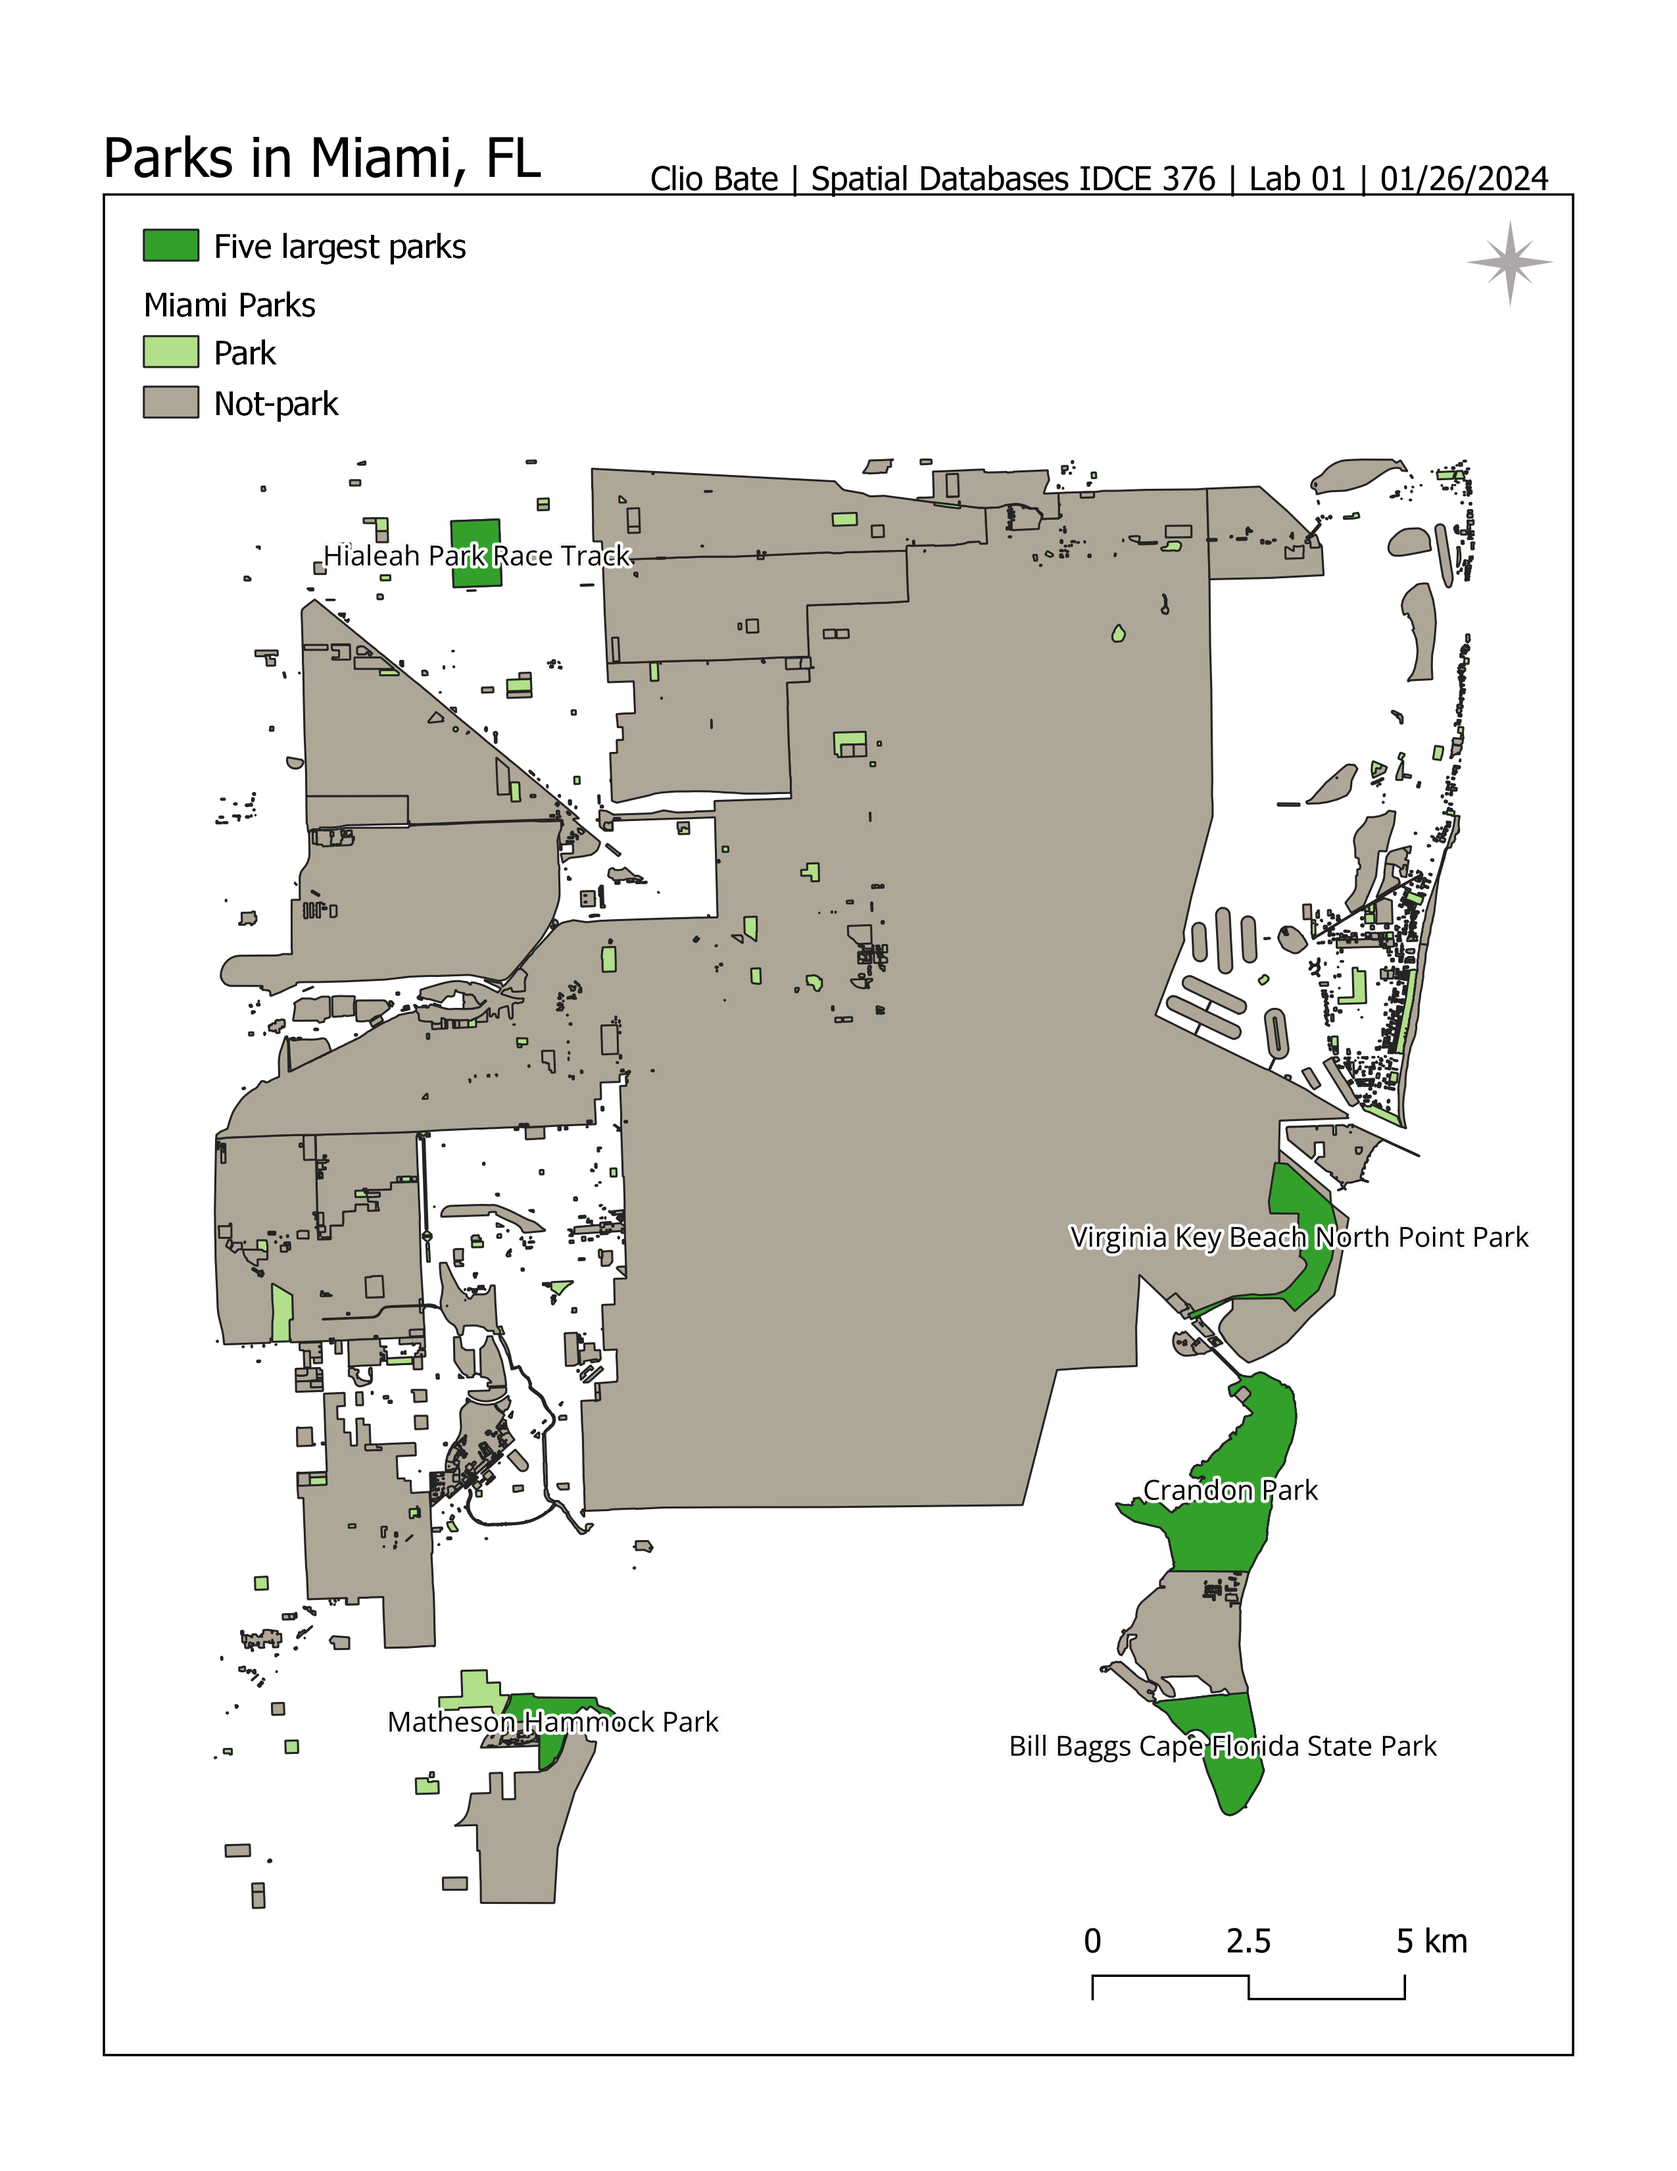
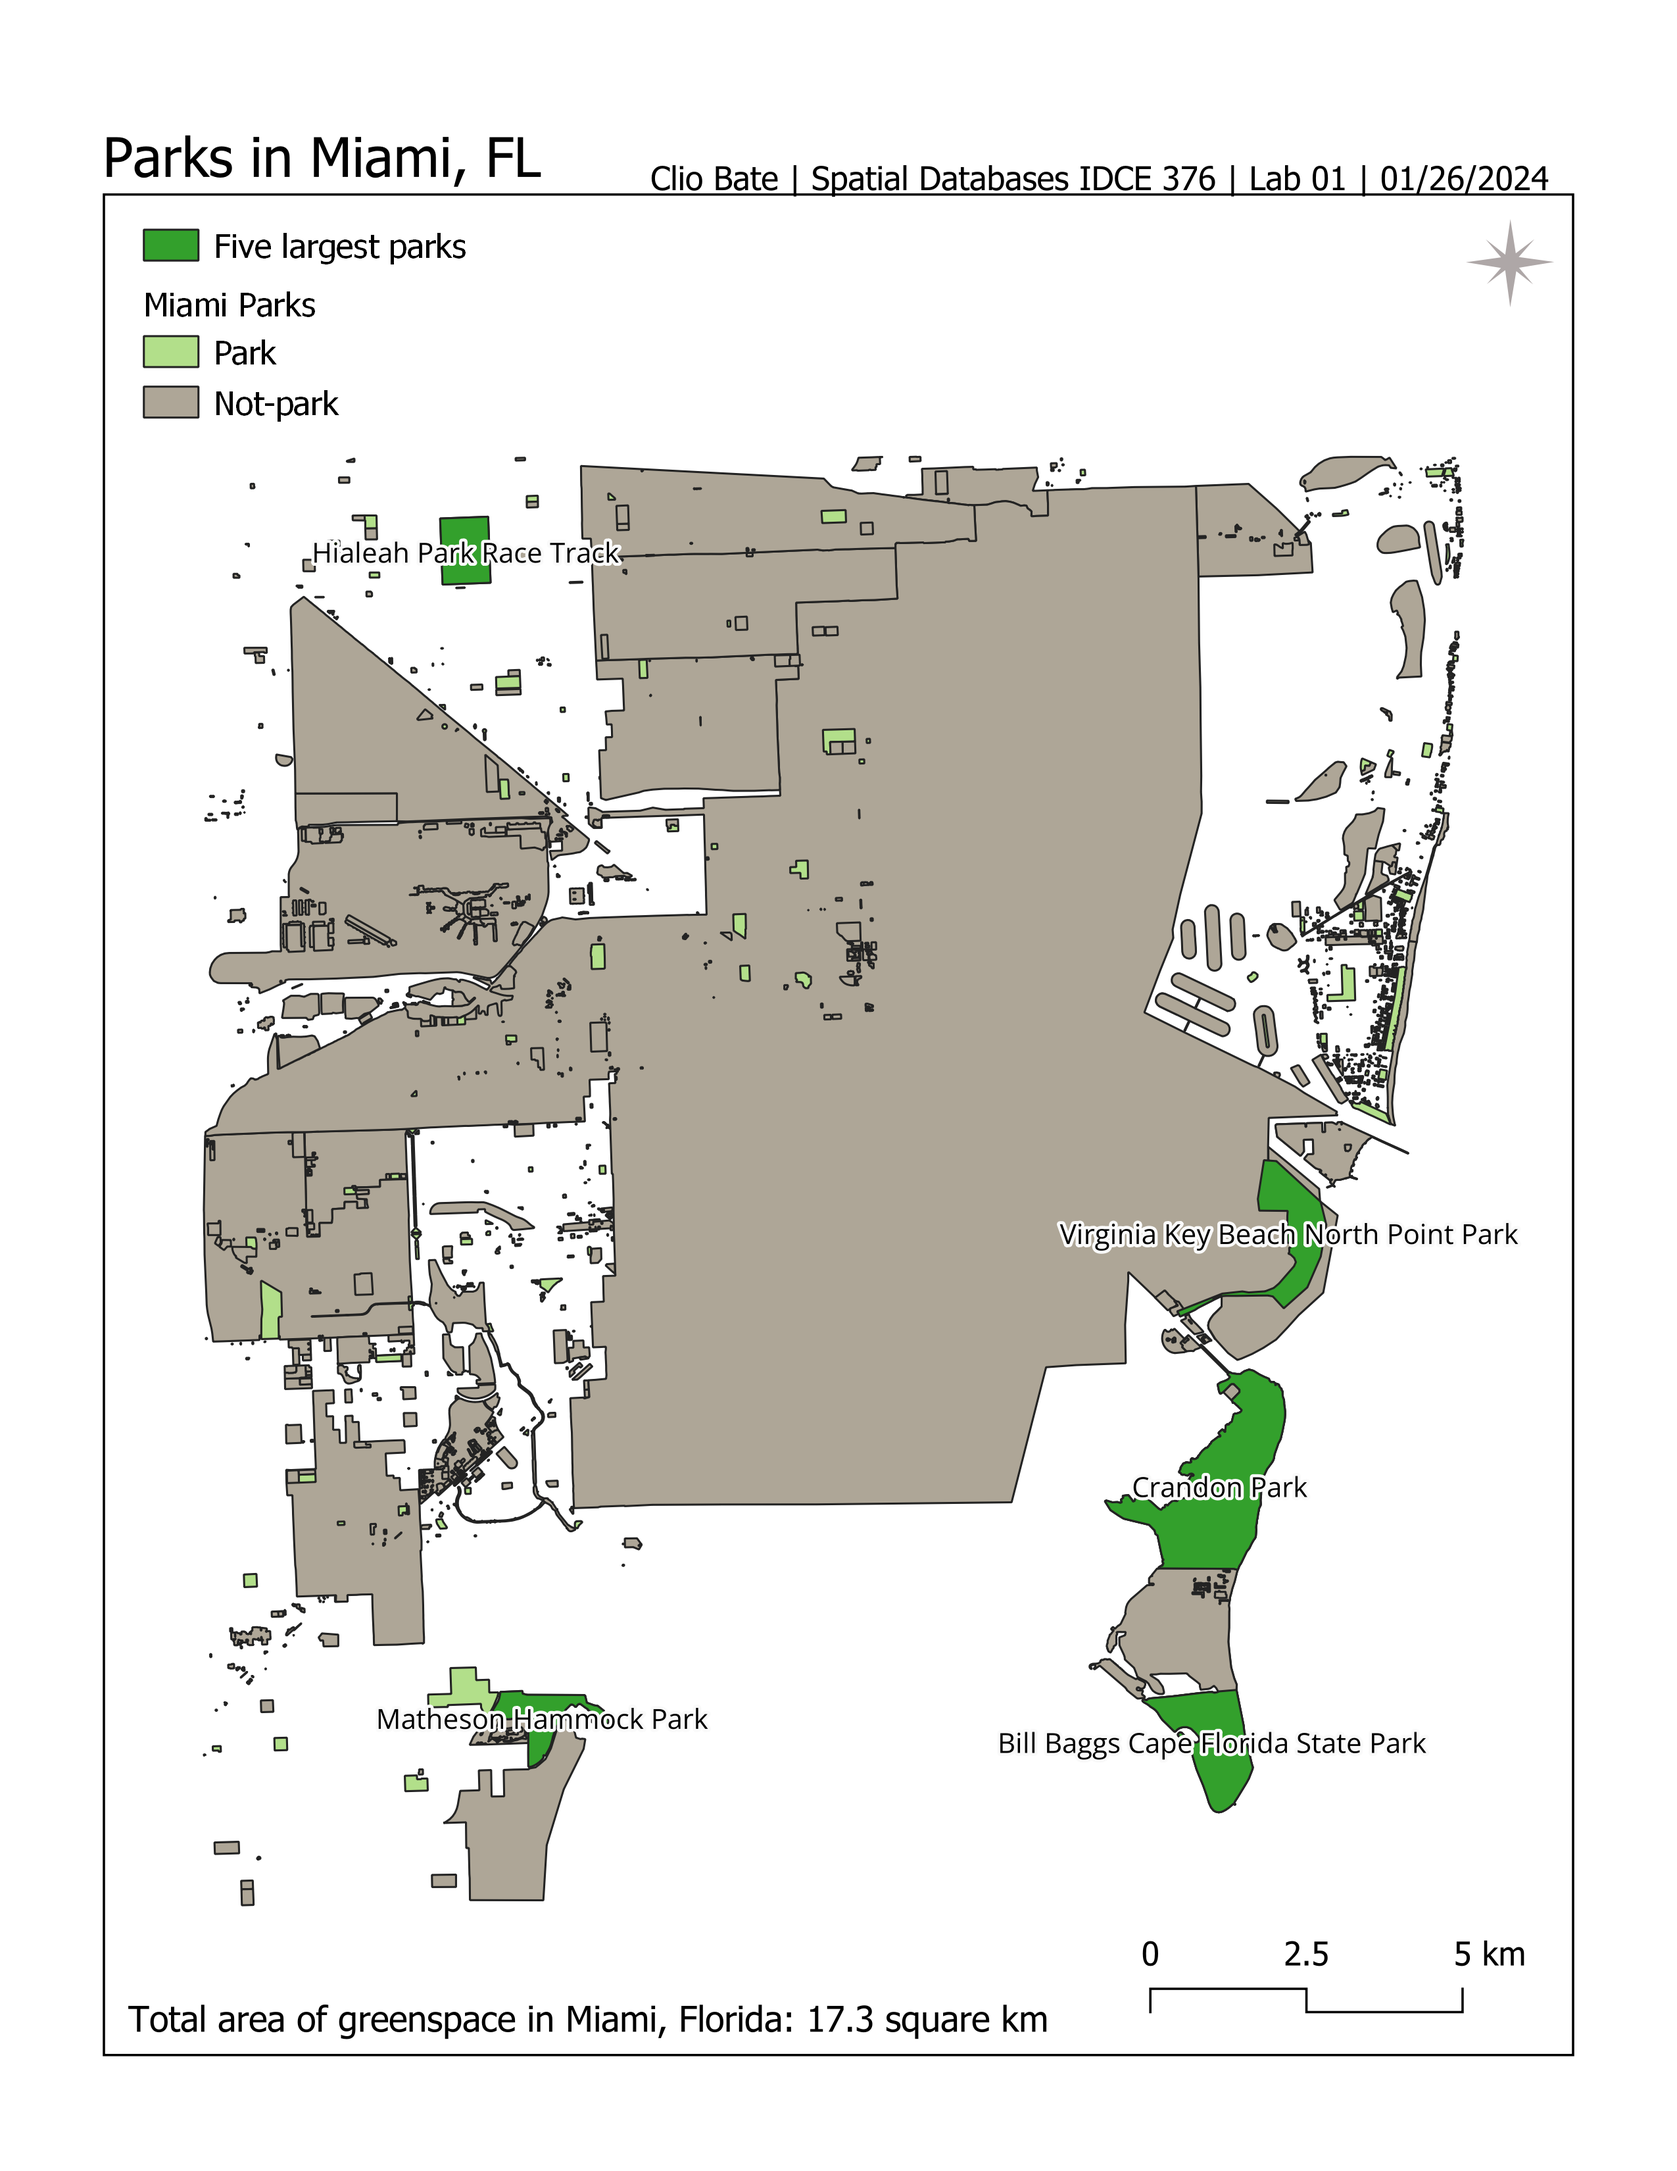
added total green space to map and fixed formatting in README

diff --git a/README.md b/README.md
@@ -4,8 +4,8 @@ This project was created as part of the class, Spatial Databases at Clark Univer
 
 #### Methods
 1. Set up Git Bash and create a repository and initiailze it on my local machine- I had already downlowaded and used Git Bash, so I only had to create aned add the reposity, UrbanGreenSpacesProject
-2. Chose a city and download the data in pbf format. [Link to data](https://download.bbbike.org/osm/bbbike/Miami/) I chose Miami, FL.
-3. Ceate the a database in PgAdmin using the following code
+2. Chose a city and download the data in pbf format. [Link to data](https://download.bbbike.org/osm/bbbike/Miami/)— I chose Miami, FL.
+3. Ceate the a database in PgAdmin using the following code  
 `osm2pgsql -d urban_green_spaces -U postgres -W C:\Users\cvale\Clark_Assignments\Databases_S24\UrbanGreenSpacesProject\Miami.osm.pbf`
 4. Using SQL query, select all the parks within the database and sort by decending
 5. Clean data by removing any null or empty values 
